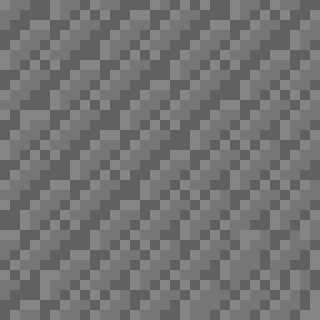
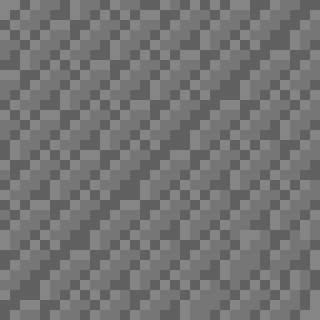
Added more Textures

diff --git a/GameFrame/GameFrame/Adventure.cs b/GameFrame/GameFrame/Adventure.cs
@@ -33,14 +33,16 @@ namespace GameFrame
         {
             map.Gen(new int[,]
             {
-                {4,3,1,1,1,1,1,1},
-                { 3,3,1,1,1,1,1,1},
-                { 3,3,2,2,2,2,2,2},
-                { 3,3,5,6,5,5,6,5},
-                { 3,6,6,5,5,5,6,5},
-                { 6,5,5,5,6,5,5,6},
+                { 4,3,1,1,1,1,1,1,1,1,1,1},
+                { 3,3,1,1,1,1,1,1,1,1,1,1},
+                { 3,3,2,2,2,2,2,2,2,2,2,2},
+                { 3,7,5,6,5,5,6,5,5,5,6,5},
+                { 7,6,6,5,5,5,6,5,6,5,5,5},
+                { 6,5,5,5,6,5,5,6,5,5,5,5},
+                { 5,5,6,5,5,5,6,5,5,5,6,5},
+                { 5,5,5,5,6,5,5,5,5,6,5,5},
             }
-                ,64);
+                , 64);
             P1.LoadContent();
             for (int i = 0; i < EL.Count; i++)
                 EL[i].LoadContent();

diff --git a/GameFrame/GameFrame/Tiles.cs b/GameFrame/GameFrame/Tiles.cs
@@ -39,6 +39,8 @@ namespace GameFrame
                 return "Tile_Dirt_1";
             if (i == 6)
                 return "Tile_Dirt_2";
+            if (i == 7)
+                return "Tile_Brick_1_Ang_1_3";
             return "Null";
         }
     }
